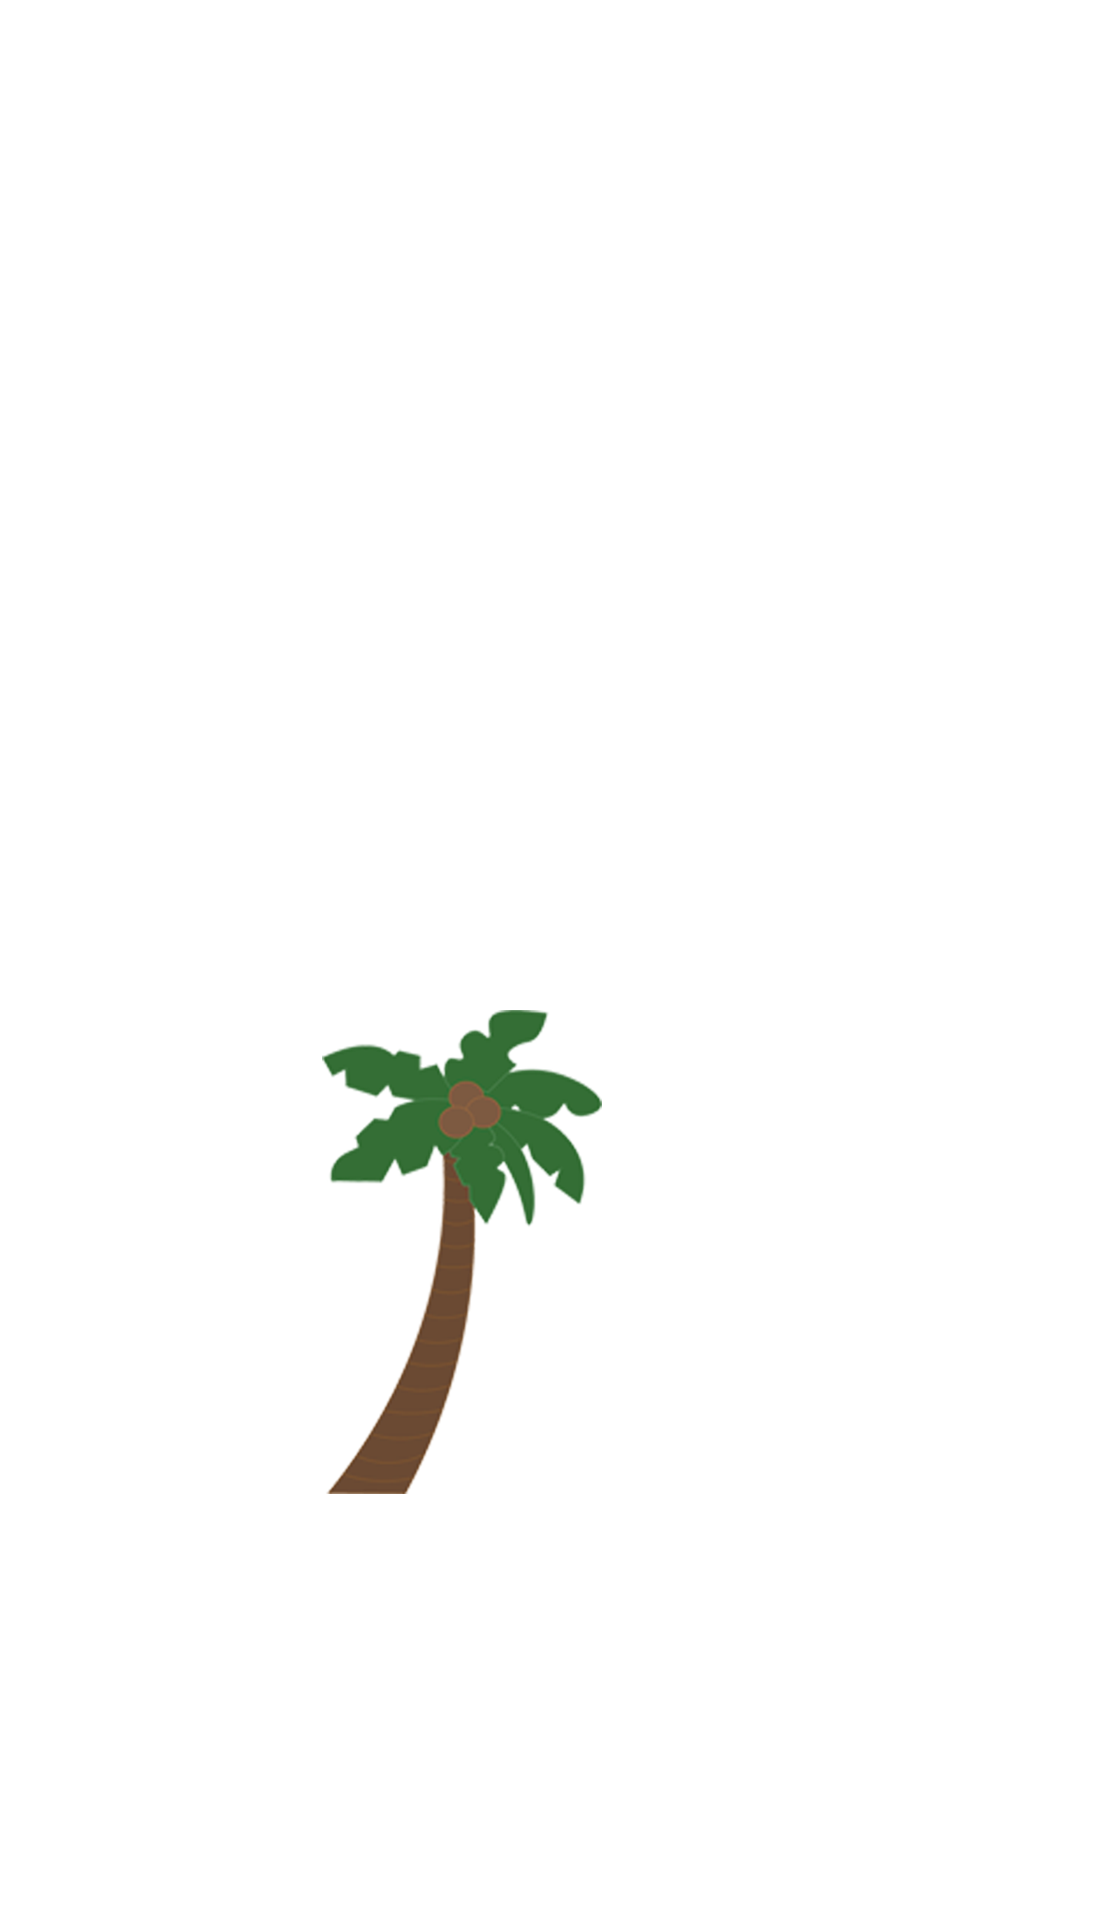
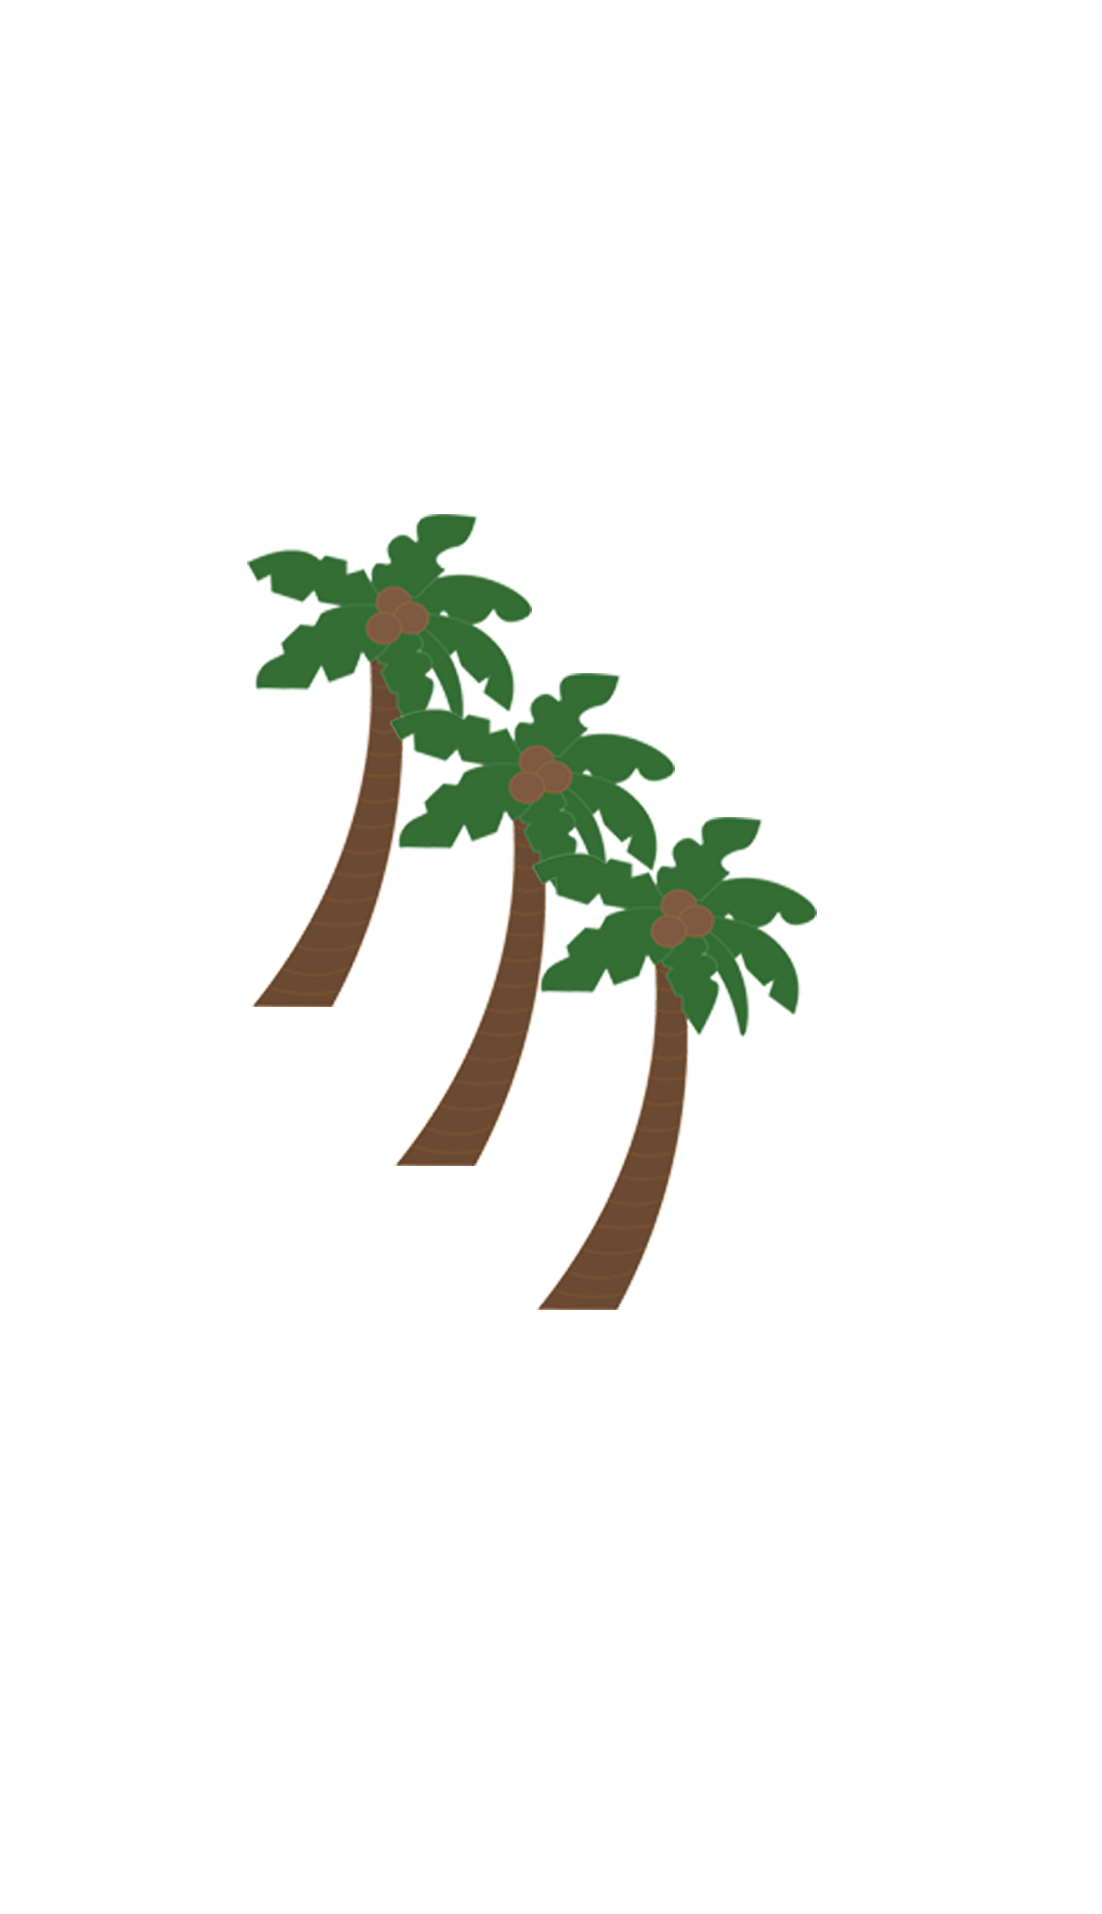
New Imagery of Palm Trees Added

Changed region(s): [[0.216, 0.2466, 0.7405, 0.8015]]

diff --git a/music_starter.js b/music_starter.js
@@ -2,10 +2,12 @@
 let firstRun = true 
 let PalmTrees; 
 let Carview;
+let LeavesonTop;
+let WaterScene;
 
 function draw_one_frame(vocal, drum, bass, other) {
 colorMode(HSB, 100);
-background('#87CEEB')
+background('#F5E3F5');
 noStroke();
 rectMode(CENTER)
 strokeWeight(9)
@@ -15,6 +17,8 @@ if(firstRun){
 rectMode(CENTER)
 PalmTrees = loadImage ('Palm Trees.png');
 Carview = loadImage ('Car View.png');
+LeavesonTop = loadImage ('Leaves on Top.png');
+WaterScene = loadImage ('Water Scene.png');
  firstRun = false
 
 
@@ -25,8 +29,8 @@ fill('#EDE3A4')
 ellipse(190, 110, 190,190)
 
 //Sand Drawing
-fill('#EDD3B4')
-quad(65, 765, 940, 678, 580, 280, 120, 280);
+fill('#F5E3BE')
+quad(75, 765, 940, 678, 580, 280, 120, 280);
 
 //Road Drawing
 fill('#000000') 
@@ -75,19 +79,19 @@ ellipse(360,173,50,10)//below
 
 //Cloud 3 Shades
 fill('#EE8CC2')
-stroke('#EEB5C8')
+stroke('#EBDDED')
 ellipse(344,160,50,10)//left
 ellipse(370,150,50,10)//middle
 ellipse(380,160,50,10)//right
 ellipse(370,173,50,10)//below
 
 //Cloud 4
-fill('#F05CA9')
-stroke('#F05CA9')
+fill('#EE8CC2')
+stroke('#EEB5C8')
 ellipse(334,60,50,10)//left
 ellipse(360,50,50,10)//middle
 ellipse(390,60,50,10)//right
-ellipse(360,73,50,10)//below
+ellipse(360,73,50, 20)//below
 
 //Cloud 4 Shades
 fill('#EDC9B4')
@@ -97,24 +101,14 @@ ellipse(370,50,50,10)//middle
 ellipse(380,60,50,10)//right
 ellipse(370,73,50,10)//below
 
-//Road Marks Drawing 
-let drumMap = map(drum, 0,100,5,70); //parseint
-let lengthOfLine = 100;
-let LineStart = 10;
-let lineEnd = LineStart+lengthOfLine;
-    
-line(LineStart, 950, lineEnd, 550); 
-line(LineStart, 560, lineEnd, 560);
-line(LineStart, 570, lineEnd, 570);
+//fill('#EDE3A4')
+//let ballSize = map(bass, 25, 30, 40, 150) 
+//let drumHight = map(drum, 1 , 50, height, 3+ballSize); 
+//ellipse(width/2, drumHight, ballSize/2);
 
-fill('#EDE3A4')
-let ballSize = map(bass, 25, 30, 40, 150) 
-let drumHight = map(drum, 1 , 50, height, 3+ballSize); 
-ellipse(width/2, drumHight, ballSize/2);
-
-//Scenery 
-
-image(PalmTrees, 10,-990)
+image(WaterScene, -545,-155)
+image(PalmTrees, 130,-700)
 image(Carview,-10,-640)
+
 }
     
